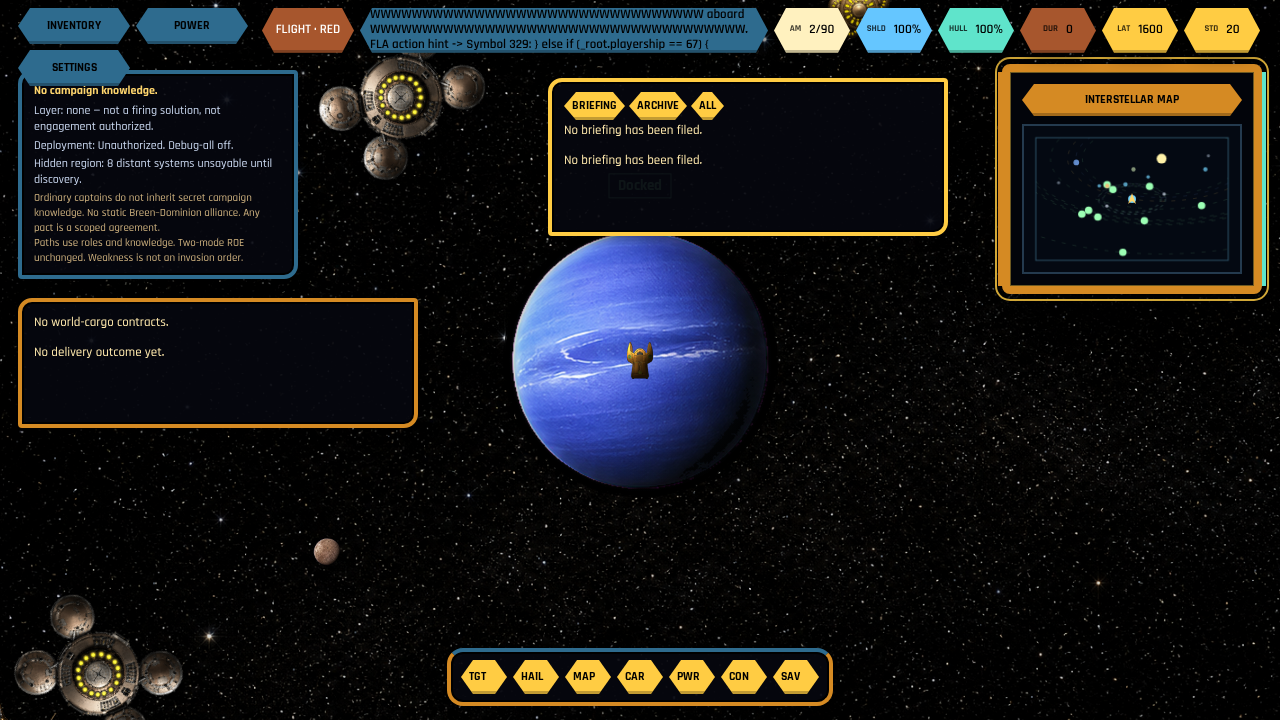
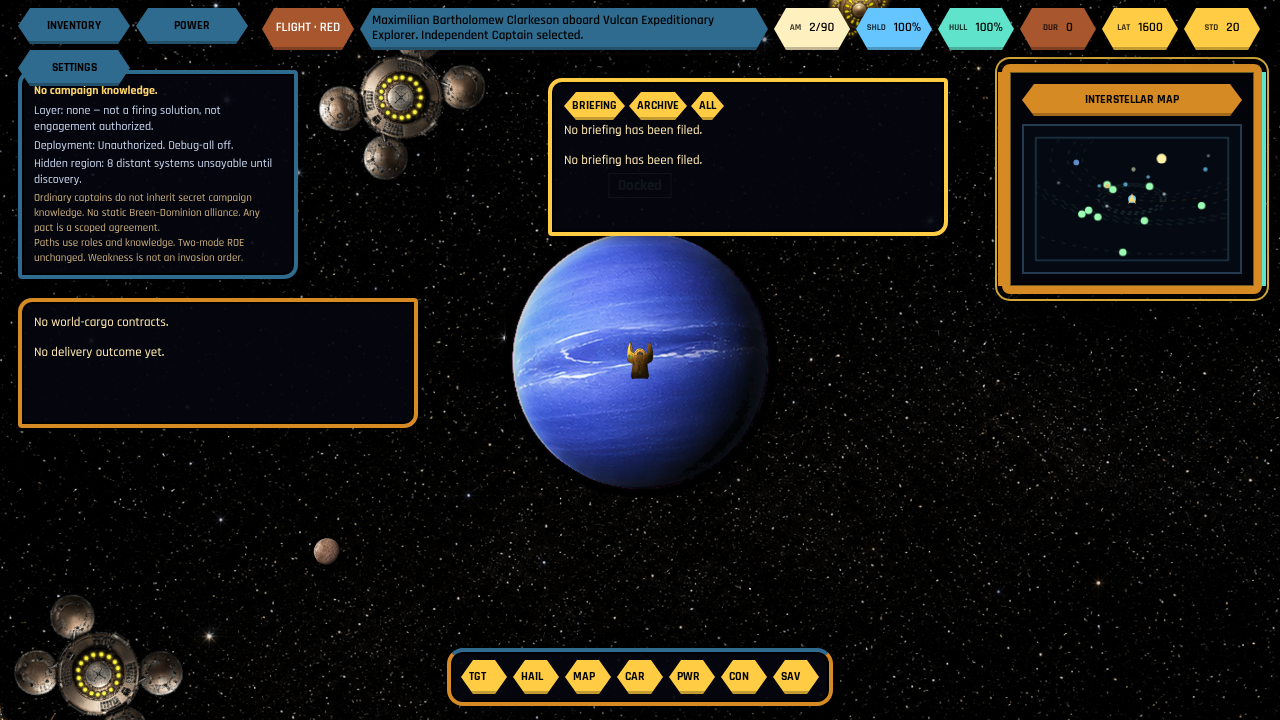
Stop leaking FLA source into the new-game header.
Terran start was replacing the faction-selected line with a raw ActionScript hint. The worst-case strip now uses the longest real captain, roster ship, and faction label, and the overflow checks fail if a line is cut off vertically. The covert-drop shot follows the flight undock path so the header and planet tag no longer say Docked.

Changed region(s): [[0.2188, 0.0, 0.9688, 0.0917]]

diff --git a/src/main.js b/src/main.js
@@ -10620,6 +10620,7 @@ function setLog(msg, opts = {}) {
   if (messageText) {
     messageText.textContent = msg;
     messageEl.title = msg;
+    fitHeaderStatusPill();
   } else if (messageEl) {
     messageEl.textContent = msg;
   }
@@ -13747,6 +13748,43 @@ function createEmptyCargoArray() {
   return Array.from({ length: 10 }, () => ({ tons: 0, item: 'Nothing', destination: undefined, payout: 0 }));
 }
 
+function readHeaderStatusFit(messageEl, textEl) {
+  const pill = messageEl.getBoundingClientRect();
+  const range = document.createRange();
+  range.selectNodeContents(textEl);
+  const lines = [...range.getClientRects()].filter((rect) => rect.width > 0.5 && rect.height > 0.5);
+  const style = getComputedStyle(textEl);
+  const linesInside = lines.length > 0 && lines.every((rect) => (
+    rect.top >= pill.top - 0.5
+    && rect.bottom <= pill.bottom + 0.5
+    && rect.left >= pill.left - 0.5
+    && rect.right <= pill.right + 0.5
+  ));
+  const scrollFits = textEl.scrollWidth <= textEl.clientWidth + 1
+    && textEl.scrollHeight <= textEl.clientHeight + 1
+    && messageEl.scrollHeight <= messageEl.clientHeight + 1;
+  return {
+    lineCount: lines.length,
+    linesInside,
+    fits: linesInside
+      && scrollFits
+      && style.textOverflow !== 'ellipsis'
+      && style.whiteSpace !== 'nowrap',
+  };
+}
+
+function fitHeaderStatusPill() {
+  const messageEl = statsEl?.querySelector('.top-message');
+  const textEl = messageEl?.querySelector('.top-message-text');
+  if (!messageEl || !textEl) return;
+  const sizes = [13, 12, 11];
+  for (const size of sizes) {
+    textEl.style.fontSize = `${size}px`;
+    const fit = readHeaderStatusFit(messageEl, textEl);
+    if (fit.lineCount <= 2 && fit.fits) return;
+  }
+}
+
 function updateStats() {
   applyFactionUiTheme();
   state.mylatinum = state.latinum;
@@ -13775,6 +13813,7 @@ function updateStats() {
       <div class="top-stat"><span>LAT</span>${state.latinum}</div>
       <div class="top-stat" title="${escapeHtml(formatFaction(getSystemFaction(state.currentPlanet)) + ' standing')}"><span>STD</span>${getFactionStanding(getSystemFaction(state.currentPlanet))}</div>
     </div>`;
+  fitHeaderStatusPill();
   updatePanel();
   refreshFleetOrderPanel();
   updateBottomDock();
@@ -23484,10 +23523,6 @@ function startWithFaction(key, options = {}) {
   renderStartMenu('main');
   playGameSound('shipLaunch', { cooldownKey: 'ship:new-game' });
   setLog(`${state.captainName} aboard ${state.shipName}. ${f.label} selected.`);
-  const hint = getFactionHint(f.playership);
-  if (hint) {
-    setLog(`${state.captainName} aboard ${state.shipName}. FLA action hint -> ${hint}`);
-  }
   syncLegacyState();
   updateStats();
 }
@@ -24130,6 +24165,13 @@ function installBm1ProbeHarness() {
     paint: () => {
       probeTick(1, 1);
       render();
+    },
+    redraw: () => render(),
+    worldPopTexts: () => {
+      const now = performance.now();
+      return state.worldPops
+        .filter((pop) => now - pop.born < pop.ttl)
+        .map((pop) => String(pop.text || ''));
     },
     skipIntro: skipIntroStory,
     startGame(faction = 'ferengi', options = {}) {
@@ -25886,6 +25928,10 @@ function createWorldCargoProbeApi() {
         dockDistance,
         inside: Number.isFinite(dockDistance) && distance <= dockDistance,
         docked: state.docked === true,
+        planetWorld: {
+          x: state.systemPlanet?.x ?? null,
+          y: state.systemPlanet?.y ?? null,
+        },
       };
     },
     completeOpen: (opts = {}) => {

diff --git a/styles.css b/styles.css
@@ -660,21 +660,27 @@ body.ui-theme-cardassian .planet-menu::before {
 }
 .top-message {
   justify-content: flex-start;
-  padding-inline: 10px;
+  align-items: center;
+  min-height: max(42px, min-content);
+  height: auto;
+  padding: 6px 18px 6px 12px;
   gap: 8px;
   white-space: normal;
   overflow: hidden;
   text-overflow: clip;
-  overflow-wrap: anywhere;
+  overflow-wrap: break-word;
   line-height: 1.15;
   pointer-events: auto;
 }
 .top-message-text {
+  display: block;
   min-width: 0;
+  max-width: 100%;
   flex: 1 1 auto;
   white-space: normal;
-  overflow-wrap: anywhere;
+  overflow-wrap: break-word;
   text-overflow: clip;
+  line-height: 1.15;
 }
 .flash-ack {
   margin-left: auto;

diff --git a/docs/world-cargo-delivery/screenshots/after/NOTES.md b/docs/world-cargo-delivery/screenshots/after/NOTES.md
@@ -3,6 +3,6 @@
 Viewport 1280×720. `01-open-delivery.png` is a completed open delivery at the world.
 `02-covert-drop.png` is the covert-drop outcome, including the cloaked drop of an open contract.
 
-The cloaked drops are taken undocked, still inside getPlanetDockDistance. The open-contract cloak failure is cloak-not-legal.
+The cloaked drops are taken after the flight undock path, still inside getPlanetDockDistance. The open-contract cloak failure is cloak-not-legal. The header and planet tag do not say Docked.
 
 clippedControls: []
